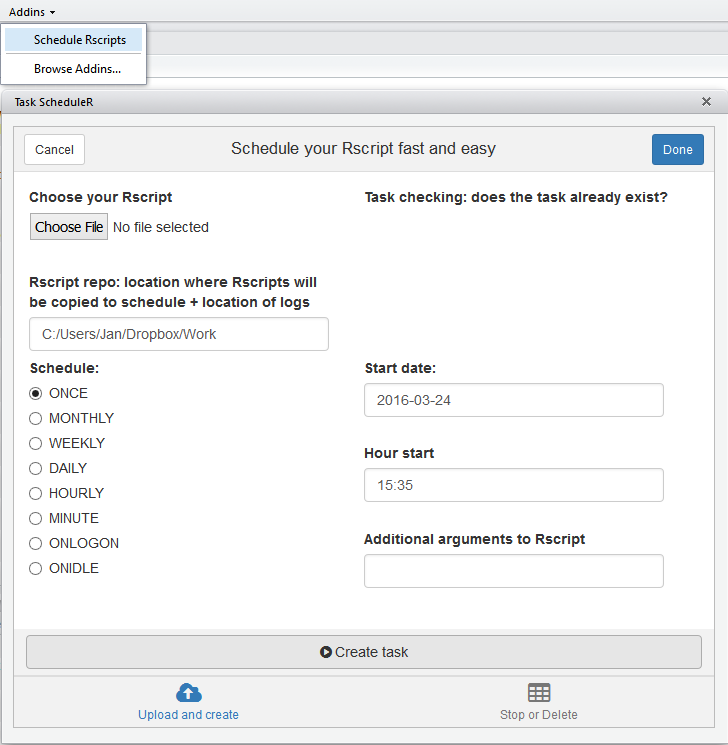
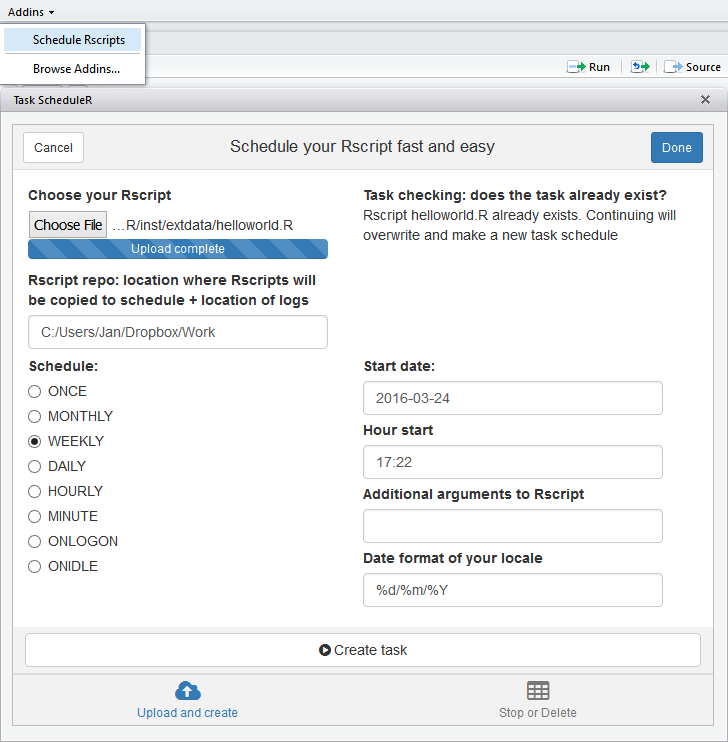
provide solution in add-in for local-dependent date formatting + more documentation

diff --git a/README.md b/README.md
@@ -26,9 +26,9 @@ myscript <- system.file("extdata", "helloworld.R", package = "taskscheduleR")
 ## run script once within 62 seconds
 taskscheduler_create(taskname = "myfancyscript", rscript = myscript, 
   schedule = "ONCE", starttime = format(Sys.time() + 62, "%H:%M"))
-## run script every day at 09:10
+## run script every day at 09:10. Change the format of startdate to your locale if needed (e.g. US: %m/%d/%Y)
 taskscheduler_create(taskname = "myfancyscriptdaily", rscript = myscript, 
-  schedule = "DAILY", starttime = "09:10")
+  schedule = "DAILY", starttime = "09:10", startdate = format(Sys.Date(), "%d/%m/%Y"))
 
 ## get a data.frame of all tasks
 tasks <- taskscheduler_ls()
@@ -53,6 +53,7 @@ The package contains also an RStudio add-in. If you install the package and use 
 
 ![taskscheduleR](inst/img/taskscheduleR-rstudioaddin.png) 
 
+Mark that the date format is the date format in Belgium. Change once to your locale if needed. E.g. in the US %m/%d/%Y
 
 Install
 -----------
